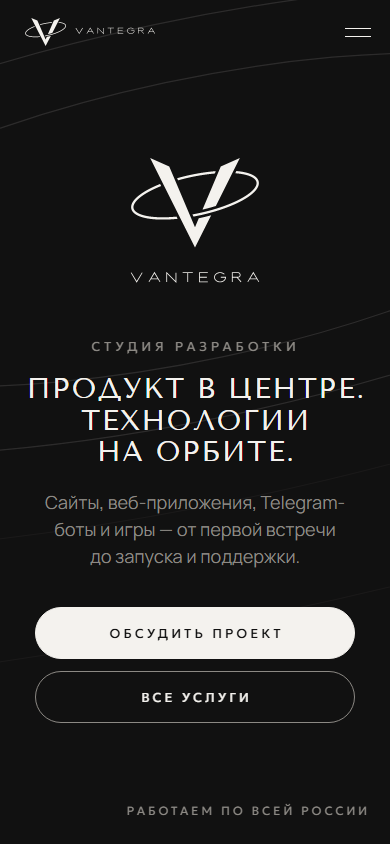
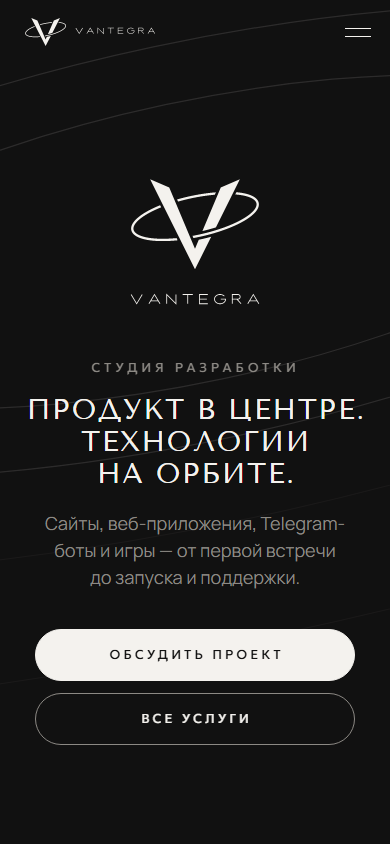
Главная: убрана нижняя строка первого экрана (правка владельца)

diff --git a/PLAN.md b/PLAN.md
@@ -103,7 +103,7 @@ Astro 7.3 (static, `trailingSlash: 'always'`), TypeScript strict, обычный
 8. **Markdown** — процессор unified вместо Sätteri (по умолчанию в Astro 7): нужен rehype-плагин типографа.
 9. **Прорисовка орбит** — длина кольца считается при сборке и переводится в пиксели экрана (`--len`), в конце анимации штрих снимается: при `non-scaling-stroke` Chrome считает штрихи в экранных пикселях.
 10. **Контакты в мобильном меню** — компактные строки, чтобы кнопка «Обсудить проект» помещалась на 375 × 812 без прокрутки.
-11. **«Листайте» убрано** с первого экрана по решению владельца (03.10.2026); внизу справа осталось «Работаем по всей России».
+11. **Нижняя строка первого экрана убрана** по решению владельца (03.10.2026): нет ни «Листайте», ни «Работаем по всей России».
 12. **Тире** — детектор impeccable отмечает «много длинных тире»; это формат подписей «01 — Название» и готовые тексты задания, оставлено по брифу.
 
 ## 7. Этапы
